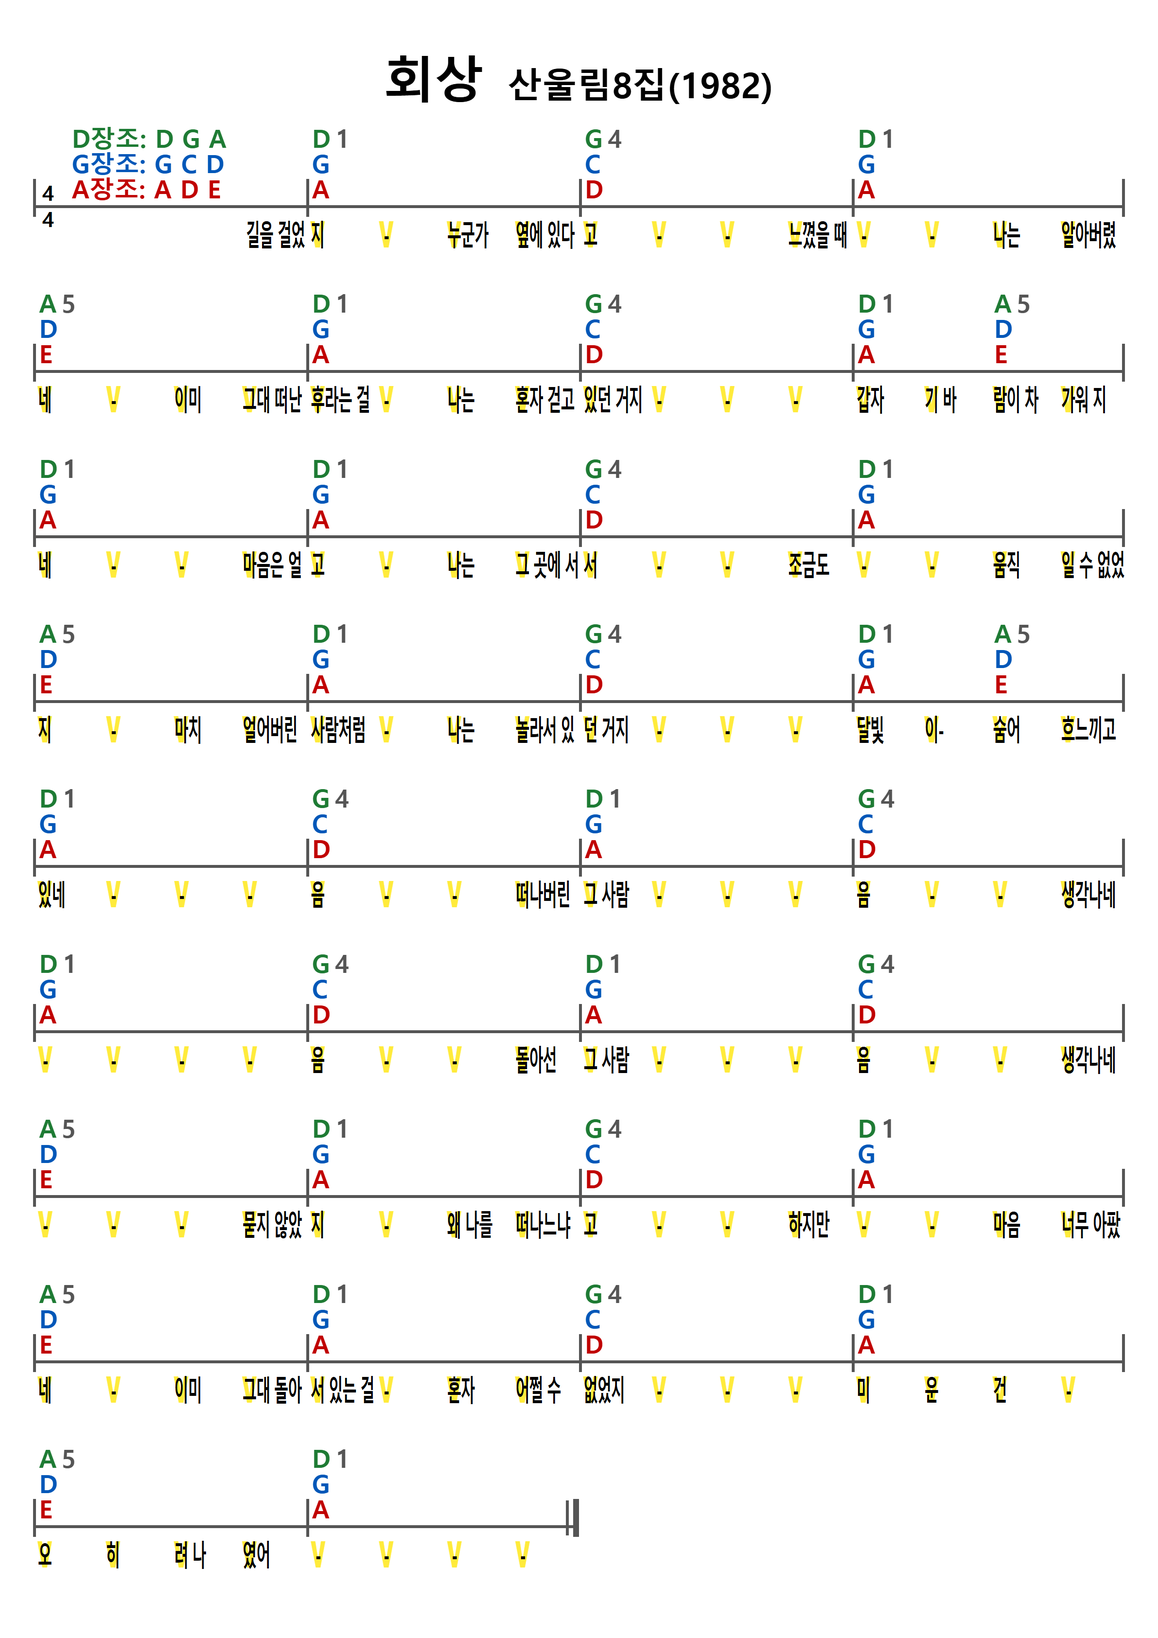
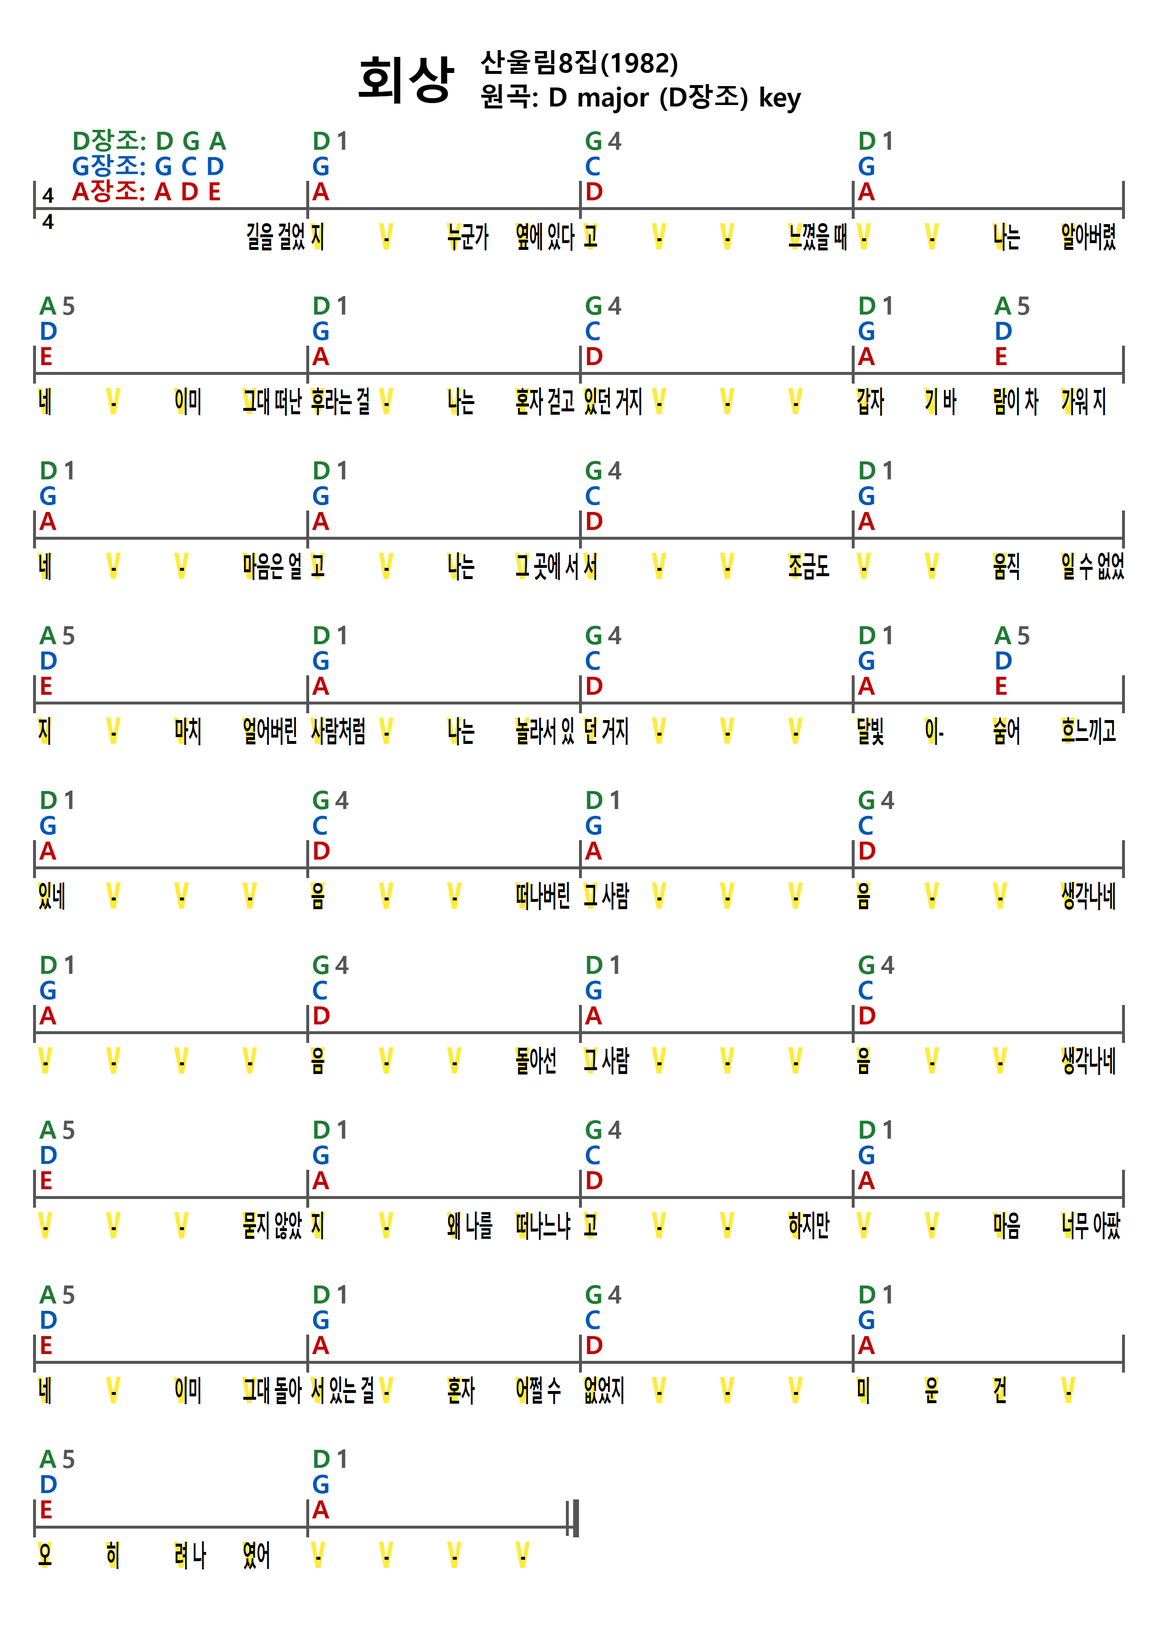
sheet

diff --git a/raw/145_youAreMySunshine_DGA장조.html b/raw/145_youAreMySunshine_DGA장조.html
@@ -1,0 +1,170 @@
+<!doctype html>
+<html lang="ko">
+<head>
+<meta charset="utf-8">
+<title>You Are My Sunshine (D·G·A 장조, 마디 정렬)</title>
+<style>
+  @page { size: A4; margin: 0; }
+  * { -webkit-print-color-adjust: exact; print-color-adjust: exact; }
+  :root { --ly: 22px; --ch: 16px; --a: #C00000; --g: #0057B8; --d: #1E7B34; --line: #555; }
+  html, body { margin: 0; background: #fff; color: #000; font-family: "Malgun Gothic", "맑은 고딕", sans-serif; }
+  .page { box-sizing: border-box; width: 210mm; height: 297mm; margin: 0 auto; padding: 8mm 6mm 6mm; overflow: hidden; }
+  .title { display: flex; justify-content: center; align-items: baseline; gap: 16px; margin-bottom: 10px; }
+  h1 { font-size: 34px; margin: 0; white-space: nowrap; }
+  h2 { margin: 0; }
+  /* 제목 오른쪽 정보: 가수·년도 / 원곡 조 를 두 줄로 */
+  .title { align-items: center; }
+  .info { font-size: 18px; font-weight: bold; line-height: 1.3; white-space: nowrap; }
+  /* 한 줄 = 같은 폭의 4마디 */
+  .row { display: grid; grid-template-columns: repeat(4, 1fr); margin-bottom: 8px; }
+  .m { display: flex; min-width: 0; }
+  .part { flex: 1; min-width: 0; display: flex; flex-direction: column; }
+  .ch { position: relative; border-bottom: 2px solid var(--line); padding: 0 0 3px 6px; }
+  .ch i { display: block; height: calc(var(--ch) * 1.02); font-size: var(--ch); font-style: normal; font-weight: 800; line-height: 1; }
+  .ch i.a { color: var(--a); }
+  .ch i.g { color: var(--g); }
+  .ch i.d { color: var(--d); }
+  /* 코드 번호(도수): 코드 오른쪽에 조금 작게, 진한 회색 */
+  .ch i .deg { margin-left: 0.2em; font-size: 1em; color: #555; }
+  /* 마디선: 가로줄을 가로지르는 짧은 세로선 */
+  .m > .part:first-child .ch::before, .m.last > .part:last-child .ch::after { content: ""; position: absolute; bottom: -8px; height: 26px; width: 2px; background: var(--line); }
+  .m > .part:first-child .ch::before { left: 0; }
+  .m.last > .part:last-child .ch::after { right: 0; }
+  .m.end > .part:last-child .ch::after { width: 4px; box-shadow: -6px 0 0 -1px var(--line); }
+  /* 가사: 글자 간격을 살짝 좁히고 외곽선을 더해 더 크고 진하게 */
+  .ly { display: flex; gap: 4px; padding: 6px 1px 0 3px; font-size: var(--ly); font-weight: bold; line-height: 1.15; white-space: nowrap; letter-spacing: -0.02em; position: relative; z-index: 0; }
+  /* 4/4박자의 각 박(1·2·3·4박) 첫 가사: 글자 뒤에 형광 노랑 V 표시 */
+  .ly em { position: relative; font-style: normal; }
+  .ly em::before { content: "V"; position: absolute; left: 50%; top: 50%; transform: translate(-50%, -50%); z-index: -1;
+    font-family: Arial, sans-serif; font-size: 1.25em; font-weight: 900; color: #FFEB3B; letter-spacing: 0; }
+  .ly em.beat { display: inline-block; min-width: 1em; text-align: center; }
+  .ly .next { margin-left: auto; text-align: right; }
+  /* 가사를 폭은 그대로 두고 세로로만 늘림 (--sy 배) */
+  .ly { height: calc(var(--ly) * 1.15 * var(--sy, 1)); }
+  .ly span { display: inline-block; transform: scaleY(var(--sy, 1)); transform-origin: top; }
+  /* 박자표: 마디선 바로 뒤에서 가로줄을 가운데에 두고 위아래로 숫자 표시 */
+  .time { position: absolute; left: 6px; top: 100%; transform: translateY(-50%); font-size: calc(var(--ch) * 0.85); font-weight: bold; line-height: 1.25; text-align: center; }
+  .has-time .ch { padding-left: calc(var(--ch) * 0.85 + 12px); }
+  .has-time .ly { padding-left: calc(var(--ly) * 0.7 + 12px); }
+  /* 칸이 좁아 코드 번호와 코드가 붙지 않게 */
+  .ch { padding-left: 4px; }
+</style>
+</head>
+<body>
+<div class="page">
+  <div class="title"><h1>You Are My Sunshine</h1><div class="info"><div>Jimmie Davis (1940)</div><div>루이지애나 주가(1977 지정)</div></div></div>
+  <div id="song"></div>
+</div>
+<script>
+// 한 줄에 4마디씩, 마디 폭은 모두 같게 표시 (rule.txt 6)
+// [코드]는 그 위치부터 적용(원본 C장조 기준)
+// " / " 뒤의 가사는 다음 마디로 이어지는 못갖춘마디 가사라서 마디 끝(오른쪽)에 붙여 표시
+// [@]는 코드 대신 각 줄이 어느 조의 코드인지 이름을 표시 (첫 못갖춘마디)
+// 마디와 코드 위치는 145_youAreMySunshine.png 오선 악보(후렴) 기준
+// 4/4박자: 한 마디를 같은 폭의 네 칸(1·2·3·4박)으로 나누고, 칸마다 첫 글자에 V 표시
+// "^"는 박 구분. 음을 끌거나 쉬는 박은 "-"
+const measures = [
+  "[@] / You are my",
+  "[C]sun^-^shine^-", "[C]-^my^on^ly", "[C]sun^-^shine^-", "[C7]-^you^make^me",
+  "[F]hap^-^py^-", "[F]-^when^skies^are", "[C]gray^-^-^-", "[C7]-^You'll^nev^er",
+  "[F]know^-^dear^-", "[F]-^how^much^I", "[C]love^-^you^-", "[C]-^-^Please^don't",
+  "[C]take^-^-^my", "[G7]sun^-^shine^a", "[C]way^-^-^-",
+];
+const rows = [];
+for (let i = 0; i < measures.length; i += 4) rows.push(measures.slice(i, i + 4));
+
+// 원본 C장조를 기준으로 반음 단위로 옮김 (C→D: +2, C→G: +7, C→A: +9)
+const NOTES = ["C", "C#", "D", "D#", "E", "F", "F#", "G", "G#", "A", "A#", "B"];
+const FLAT = { Db: "C#", Eb: "D#", Gb: "F#", Ab: "G#", Bb: "A#" };
+function transpose(chord, steps) {
+  const m = chord.match(/^([A-G][#b]?)(.*)$/);
+  const root = FLAT[m[1]] || m[1];
+  return NOTES[(NOTES.indexOf(root) + steps + 12) % 12] + m[2];
+}
+// 코드 줄 순서: 위에서부터 D·G·A
+const KEYS = [["d", 2, "D장조: D G A"], ["g", 7, "G장조: G C D"], ["a", 9, "A장조: A D E"]];
+// 가장 아래 코드 줄(D코드)에만 코드 번호(도수)를 오른쪽에 붙임: D=1, G=4, A=5
+const DEGREE_KEY = "d", DEGREE_ROOT = "D";
+const DEGREES = { 0: "1", 2: "2", 4: "3", 5: "4", 7: "5", 9: "6", 11: "7" };
+function degree(chord) {
+  const r = chord.match(/^[A-G][#b]?/)[0];
+  return DEGREES[(NOTES.indexOf(FLAT[r] || r) - NOTES.indexOf(DEGREE_ROOT) + 12) % 12] || "";
+}
+// 1·4·5 곡이라 7코드는 7을 빼고 기본 코드로 표시 (rule.txt 3), 예: C7 → C, G7 → G
+const label = c => c.replace(/7$/, "");
+const esc = s => s.replace(/&/g, "&amp;").replace(/</g, "&lt;");
+
+const song = document.getElementById("song");
+rows.forEach((measures, r) => {
+  const row = document.createElement("div");
+  row.className = "row";
+  measures.forEach((text, i) => {
+    const m = document.createElement("div");
+    const isLastOfSong = r === rows.length - 1 && i === measures.length - 1;
+    m.className = "m" + (i === measures.length - 1 ? " last" : "") + (isLastOfSong ? " end" : "");
+    // 박("^")이 있는 마디는 네 칸으로, 첫 못갖춘마디는 한 칸으로
+    const parts = text.includes("^") ? text.split("^") : [text];
+    // 칸의 첫 글자(또는 "-")에 V 표시
+    const markAccent = s => {
+      let done = false;
+      return [...s].map(c => {
+        if (!done && /[A-Za-z가-힣-]/.test(c)) { done = true; return `<em${c === "-" ? ' class="beat"' : ""}>${esc(c)}</em>`; }
+        return esc(c);
+      }).join("");
+    };
+    parts.forEach((part, k) => {
+      const [, chord = "", lyric] = part.match(/^(?:\[([^\]]+)\])?\s*(.*)$/);
+      const [here, next] = lyric.split(/\s*\/\s*/);
+      const p = document.createElement("div");
+      const first = r === 0 && i === 0;
+      p.className = "part" + (first ? " has-time" : "");
+      p.style.flex = "1 1 0";
+      const time = first ? `<span class="time">4<br>4</span>` : "";
+      const chordText = (steps, name, cls) => {
+        if (chord === "@") return `<span style="font-size:0.8em">${name}</span>`; // 조 안내가 칸보다 길어 조금 작게 (rule.txt 6)
+        if (!chord) return "";
+        const c = transpose(chord, steps);
+        return label(c) + (cls === DEGREE_KEY ? `<span class="deg">${degree(c)}</span>` : "");
+      };
+      const body = chord === "@" ? esc(here) : markAccent(here);
+      p.innerHTML = `<div class="ch">${time}${KEYS.map(([cls, steps, name]) => `<i class="${cls}">${chordText(steps, name, cls)}</i>`).join("")}</div>`
+        + `<div class="ly"><span>${body}</span>${next ? `<span class="next">${esc(next)}</span>` : ""}</div>`;
+      m.appendChild(p);
+    });
+    row.appendChild(m);
+  });
+  song.appendChild(row);
+});
+
+// 가사가 줄바꿈 없이 마디 안에 들어가고, A4 한 장의 높이에 맞는 가장 큰 글자 크기를 찾음
+// 가사 크기는 마디 폭이, 코드 크기는 페이지 높이가 정하므로 둘을 따로 맞춤
+const page = document.querySelector(".page");
+const root = document.documentElement.style;
+const lyEls = [...document.querySelectorAll(".ly")];
+const chEls = [...document.querySelectorAll(".ch")];
+function fits(ly, ch) {
+  root.setProperty("--ly", ly + "px");
+  root.setProperty("--ch", ch.toFixed(1) + "px");
+  return chEls.every(c => c.scrollWidth <= c.clientWidth) && lyEls.every(l => l.scrollWidth <= l.clientWidth) && page.scrollHeight <= page.clientHeight;
+}
+// 1) 가사 폭이 마디에 들어가는 가장 큰 글자 크기
+let best = 9;
+for (let ly = 26; ly >= 9; ly -= 0.25) {
+  if (fits(ly, ly * 0.8)) { best = ly; break; }
+}
+// 2) 남는 세로 공간을 가사 세로 늘림(최대 1.5배)과 코드 크기에 함께 나눔
+//    (칸이 좁아 가사 폭이 작으므로, 코드는 칸 폭이 허락하는 만큼 크게)
+//    코드는 늘어난 가사 높이와 비슷한 크기로(가사의 1.7배), 가사는 세로로 최대 2배까지 늘림
+const chSize = Math.min(24, best * 1.7);
+for (let sy = 1.3; sy >= 1; sy -= 0.05) { // 영어 가사는 너무 길쭉하지 않게 1.3배까지만
+  root.setProperty("--sy", sy.toFixed(2));
+  if (fits(best, chSize)) break;
+}
+// 3) 아래가 비면, 남는 높이를 줄 사이에 고르게 나눠 페이지를 채움
+const rowEls = [...document.querySelectorAll(".row")];
+const pageBottom = page.getBoundingClientRect().bottom - parseFloat(getComputedStyle(page).paddingBottom);
+const free = pageBottom - song.getBoundingClientRect().bottom - 4;
+if (free > 0) rowEls.forEach(r => r.style.marginBottom = `${8 + free / rowEls.length}px`);
+</script>
+</body>
+</html>

diff --git a/raw/1456_일어나_GC장조.html b/raw/1456_일어나_GC장조.html
@@ -1,0 +1,169 @@
+<!doctype html>
+<html lang="ko">
+<head>
+<meta charset="utf-8">
+<title>일어나 (G·C 장조, 마디 정렬)</title>
+<style>
+  @page { size: A4; margin: 0; }
+  * { -webkit-print-color-adjust: exact; print-color-adjust: exact; }
+  :root { --ly: 22px; --ch: 16px; --g: #C00000; --c: #0057B8; --line: #555; }
+  html, body { margin: 0; background: #fff; color: #000; font-family: "Malgun Gothic", "맑은 고딕", sans-serif; }
+  .page { box-sizing: border-box; width: 210mm; height: 297mm; margin: 0 auto; padding: 8mm 4mm 6mm; overflow: hidden; }
+  .title { position: relative; display: flex; justify-content: center; align-items: baseline; gap: 16px; margin-bottom: 10px; }
+  /* 첫 마디가 바로 코드로 시작해 코드 안내를 넣을 빈 마디가 없으므로 제목 왼쪽 위에 표시 */
+  .legend { position: absolute; left: 0; top: 0; font-size: 15px; font-weight: 800; line-height: 1.15; }
+  h1 { font-size: 34px; margin: 0; }
+  h2 { margin: 0; }
+  /* 제목 오른쪽 정보 (rule.txt 9) */
+  .title { align-items: center; }
+  .info { font-size: 18px; font-weight: bold; line-height: 1.3; white-space: nowrap; }
+  /* 한 줄 = 같은 폭의 4마디 */
+  .row { display: grid; grid-template-columns: repeat(4, 1fr); margin-bottom: 14px; }
+  .m { display: flex; min-width: 0; }
+  .part { flex: 1; min-width: 0; display: flex; flex-direction: column; }
+  .ch { position: relative; border-bottom: 2px solid var(--line); padding: 0 0 3px 6px; }
+  .ch i { display: block; height: calc(var(--ch) * 1.02); font-size: var(--ch); font-style: normal; font-weight: 800; line-height: 1; }
+  .ch i.g { color: var(--g); }
+  .ch i.c { color: var(--c); }
+  /* 코드 번호(도수): 코드 오른쪽에 같은 크기, 진한 회색 */
+  .ch i .deg { margin-left: 0.2em; font-size: 1em; color: #555; }
+  /* 마디선: 가로줄을 가로지르는 짧은 세로선 */
+  .m > .part:first-child .ch::before, .m.last > .part:last-child .ch::after { content: ""; position: absolute; bottom: -8px; height: 26px; width: 2px; background: var(--line); }
+  .m > .part:first-child .ch::before { left: 0; }
+  .m.last > .part:last-child .ch::after { right: 0; }
+  .m.end > .part:last-child .ch::after { width: 4px; box-shadow: -6px 0 0 -1px var(--line); }
+  /* 가사: 1절과 2절을 위아래 두 줄로, 글자 간격을 살짝 좁힘 */
+  .lys { padding: 6px 2px 0 4px; }
+  .ly { display: flex; gap: 4px; font-size: var(--ly); font-weight: bold; line-height: 1.2; white-space: nowrap; letter-spacing: -0.04em; }
+  .ly .next { margin-left: auto; text-align: right; }
+  /* 가사를 폭은 그대로 두고 세로로만 늘림 (--sy 배) */
+  .ly { height: calc(var(--ly) * 1.2 * var(--sy, 1)); }
+  .ly span { display: inline-block; transform: scaleY(var(--sy, 1)); transform-origin: top; }
+  /* 박자표: 마디선 바로 뒤에서 가로줄을 가운데에 두고 위아래로 숫자 표시 */
+  .time { position: absolute; left: 6px; top: 100%; transform: translateY(-50%); font-size: calc(var(--ch) * 0.85); font-weight: bold; line-height: 1.25; text-align: center; }
+  .has-time .ch { padding-left: calc(var(--ch) * 0.85 + 12px); }
+  /* 가사 쪽 박자표 자리는 가사 크기 기준 (코드를 키워도 첫 가사가 밀리지 않게) */
+  .has-time .lys { padding-left: calc(var(--ly) * 0.6 + 16px); }
+</style>
+</head>
+<body>
+<div class="page">
+  <div class="title"><div class="legend"></div><h1>일어나</h1><div class="info"><div>김광석 4집(1994)</div></div></div>
+  <div id="song"></div>
+</div>
+<script>
+// 한 줄에 4마디씩, 마디 폭은 모두 같게 표시 (rule.txt 6)
+// [코드]는 그 위치부터 적용(원본 G장조 기준), 마디 가운데의 [코드]는 가사 길이에 맞춰 마디 뒤쪽에 표시
+// " / " 뒤의 가사는 다음 마디로 이어지는 가사라서 마디 끝(오른쪽)에 붙여 표시
+// 코드와 마디, 가사 위치는 일어나.png 기준 (전주 2줄 포함, 구역 표시 INT/A/B는 넣지 않음)
+const TIME = "4/4";
+const measures = [
+  // 전주
+  "[Em] [D]", "[Em]", "[G] [D]", "[Em]",
+  "[C] [G]", "[D] [Em]", "[G] [D]", "[Em]",
+  // A
+  "[Em]검은 밤[D]의 가운", "[Em]데 서 있어 한치", "[G]앞도 [D]보이질 않", "[Em]아 / 어디",
+  "[C]로 가야하[G]나 어디", "[D]에 있을[Em]까 둘러", "[G]봐도 [D]소용없었", "[Em]지",
+  "[Em]인생이란 [D]강물 위를", "[Em]뜻 없이 부초", "[G]처럼 [D]떠다니다", "[Em]가 / 어느",
+  "[C]고요한 [G]호숫가에", "[D]닿으면 [Em]물과", "[G]함께 [D]썩어가겠", "[Em]지 / 일어",
+  // B
+  "[C]나 / 일어", "[G]나 / 다시", "[D]한번 해보는거", "[Em]야 / 일어",
+  "[C]나 / 일어", "[G]나 / 봄의", "[D]새 싹들 처", "[Em]럼",
+];
+const rows = [];
+for (let i = 0; i < measures.length; i += 4) rows.push(measures.slice(i, i + 4));
+
+// 원본 G장조를 기준으로 반음 단위로 옮김 (G→G: 0, G→C: +5)
+const NOTES = ["C", "C#", "D", "D#", "E", "F", "F#", "G", "G#", "A", "A#", "B"];
+const FLAT = { Db: "C#", Eb: "D#", Gb: "F#", Ab: "G#", Bb: "A#" };
+function transpose(chord, steps) {
+  const m = chord.match(/^([A-G][#b]?)(.*)$/);
+  const root = FLAT[m[1]] || m[1];
+  return NOTES[(NOTES.indexOf(root) + steps + 12) % 12] + m[2];
+}
+const KEYS = [["g", 0, "G장조: G C D Em"], ["c", 5, "C장조: C F G Am"]];
+// 1·4·5만 쓰는 곡이 아니므로 7코드는 그대로 둠 (rule.txt 3), 괄호는 쓰지 않음
+const label = c => c;
+// 가장 아래 코드 줄(C코드)에만 코드 번호(도수)를 오른쪽에 붙임: C=1, F=4, G=5, Am=6
+const DEGREE_KEY = "c", DEGREE_ROOT = "C";
+const DEGREES = { 0: "1", 2: "2", 4: "3", 5: "4", 7: "5", 9: "6", 11: "7" };
+function degree(chord) {
+  const r = chord.match(/^[A-G][#b]?/)[0];
+  return DEGREES[(NOTES.indexOf(FLAT[r] || r) - NOTES.indexOf(DEGREE_ROOT) + 12) % 12] || "";
+}
+const esc = s => s.replace(/&/g, "&amp;").replace(/</g, "&lt;");
+
+document.querySelector(".legend").innerHTML = KEYS.map(([cls, , name]) => `<div style="color:var(--${cls})">${name}</div>`).join("");
+
+const song = document.getElementById("song");
+rows.forEach((measures, r) => {
+  const row = document.createElement("div");
+  row.className = "row";
+  measures.forEach((text, i) => {
+    const m = document.createElement("div");
+    const isLastOfSong = r === rows.length - 1 && i === measures.length - 1;
+    m.className = "m" + (i === measures.length - 1 ? " last" : "") + (isLastOfSong ? " end" : "");
+    const parts = text.split(/(?=\[)/);
+    parts.forEach((part, k) => {
+      const [, chord, lyric] = part.match(/^\[([^\]]+)\]\s*(.*)$/);
+      const verses = lyric.split("|").map(v => v.trim());
+      const p = document.createElement("div");
+      const first = r === 0 && i === 0 && k === 0;
+      p.className = "part" + (first ? " has-time" : "");
+      // 마디 가운데서 코드가 바뀌면, 가사가 한 줄에 들어가도록 더 긴 절의 가사 길이에 비례해 폭을 나눔
+      // (실제 코드·가사 폭만큼 먼저 차지하고 남는 공간을 나눠 가짐 – 박자표가 있는 칸도 좁아지지 않게)
+      if (parts.length > 1) p.style.flex = "1 1 auto";
+      const time = first ? `<span class="time">${TIME.replace("/", "<br>")}</span>` : "";
+      const chordText = (steps, name, cls) => {
+        if (chord === "@") return name;
+        const c = transpose(chord, steps);
+        return label(c) + (cls === DEGREE_KEY ? `<span class="deg">${degree(c)}</span>` : "");
+      };
+      const lines = verses.map(v => {
+        const [here, next] = v.split(/\s*\/\s*/);
+        return `<div class="ly"><span>${esc(here)}</span>${next ? `<span class="next">${esc(next)}</span>` : ""}</div>`;
+      }).join("");
+      p.innerHTML = `<div class="ch">${time}${KEYS.map(([cls, steps, name]) => `<i class="${cls}">${chordText(steps, name, cls)}</i>`).join("")}</div>`
+        + `<div class="lys">${lines}</div>`;
+      m.appendChild(p);
+    });
+    row.appendChild(m);
+  });
+  song.appendChild(row);
+});
+
+// 가사가 줄바꿈 없이 마디 안에 들어가고, A4 한 장의 높이에 맞는 가장 큰 글자 크기를 찾음
+// 가사 크기는 마디 폭이, 코드 크기는 페이지 높이가 정하므로 둘을 따로 맞춤
+const page = document.querySelector(".page");
+const root = document.documentElement.style;
+const lyEls = [...document.querySelectorAll(".ly")];
+const chEls = [...document.querySelectorAll(".ch")];
+function fits(ly, ch) {
+  root.setProperty("--ly", ly + "px");
+  root.setProperty("--ch", ch.toFixed(1) + "px");
+  return chEls.every(c => c.scrollWidth <= c.clientWidth) && lyEls.every(l => l.scrollWidth <= l.clientWidth) && page.scrollHeight <= page.clientHeight;
+}
+// 1) 가사 폭이 마디에 들어가는 가장 큰 글자 크기 (코드는 일단 가사와 같은 크기)
+let best = 9;
+for (let ly = 30; ly >= 9; ly -= 0.25) {
+  if (fits(ly, ly)) { best = ly; break; }
+}
+// 2) 남는 세로 공간을 가사 세로 늘림과 코드 크기에 함께 나눔 (rule.txt 8)
+//    코드 크기를 늘어난 가사 높이에 비례하게 맞춰, 코드가 가사보다 너무 작아지지 않게 함
+search:
+for (let sy = 3; sy >= 1; sy -= 0.02) {
+  root.setProperty("--sy", sy.toFixed(2));
+  // 코드 글자 폭이 좁은 칸에 걸리면 코드만 조금 줄여서 다시 맞춤
+  for (let ch = best * sy * 0.85; ch >= Math.max(best, best * sy * 0.7); ch -= 0.5) {
+    if (fits(best, ch)) break search;
+  }
+}
+
+// 아래가 비면, 남는 높이를 줄 사이에 고르게 나눠 페이지를 채움
+const rowEls = [...document.querySelectorAll(".row")];
+const pageBottom = page.getBoundingClientRect().bottom - parseFloat(getComputedStyle(page).paddingBottom);
+const free = pageBottom - song.getBoundingClientRect().bottom - 4;
+if (free > 0) rowEls.forEach(r => r.style.marginBottom = `${14 + free / rowEls.length}px`);
+</script>
+</body>
+</html>

diff --git a/raw/145_조개껍질묶어_DGA장조.html b/raw/145_조개껍질묶어_DGA장조.html
@@ -14,6 +14,9 @@
   .legend { position: absolute; left: 0; top: 0; font-size: 15px; font-weight: 800; line-height: 1.15; }
   h1 { font-size: 34px; margin: 0; }
   h2 { margin: 0; }
+  /* 제목 오른쪽 정보: 원제·가수·년도 / 원키 를 두 줄로 */
+  .title { align-items: center; padding-left: 175px; }
+  .info { font-size: 18px; font-weight: bold; line-height: 1.3; white-space: nowrap; }
   /* 한 줄 = 같은 폭의 4마디 */
   .row { display: grid; grid-template-columns: repeat(4, 1fr); margin-bottom: 8px; }
   .m { display: flex; min-width: 0; }
@@ -54,7 +57,7 @@
 </head>
 <body>
 <div class="page">
-  <div class="title"><div class="legend"></div><h1>조개껍질 묶어</h1><h2>임형주</h2></div>
+  <div class="title"><div class="legend"></div><h1>조개껍질 묶어</h1><div class="info"><div>임형주 (1972)</div><div>원제: 라라라, 원곡: D major (D장조) key</div></div></div>
   <div id="song"></div>
 </div>
 <script>

diff --git a/raw/145_회상_DGA장조.html b/raw/145_회상_DGA장조.html
@@ -12,6 +12,9 @@
   .title { display: flex; justify-content: center; align-items: baseline; gap: 16px; margin-bottom: 10px; }
   h1 { font-size: 34px; margin: 0; }
   h2 { margin: 0; }
+  /* 제목 오른쪽 정보: 가수·년도 / 원곡 조 를 두 줄로 */
+  .title { align-items: center; }
+  .info { font-size: 18px; font-weight: bold; line-height: 1.3; white-space: nowrap; }
   /* 한 줄 = 같은 폭의 4마디 */
   .row { display: grid; grid-template-columns: repeat(4, 1fr); margin-bottom: 8px; }
   .m { display: flex; min-width: 0; }
@@ -49,7 +52,7 @@
 </head>
 <body>
 <div class="page">
-  <div class="title"><h1>회상</h1><h2>산울림8집(1982)</h2></div>
+  <div class="title"><h1>회상</h1><div class="info"><div>산울림8집(1982)</div><div>원곡: D major (D장조) key</div></div></div>
   <div id="song"></div>
 </div>
 <script>
